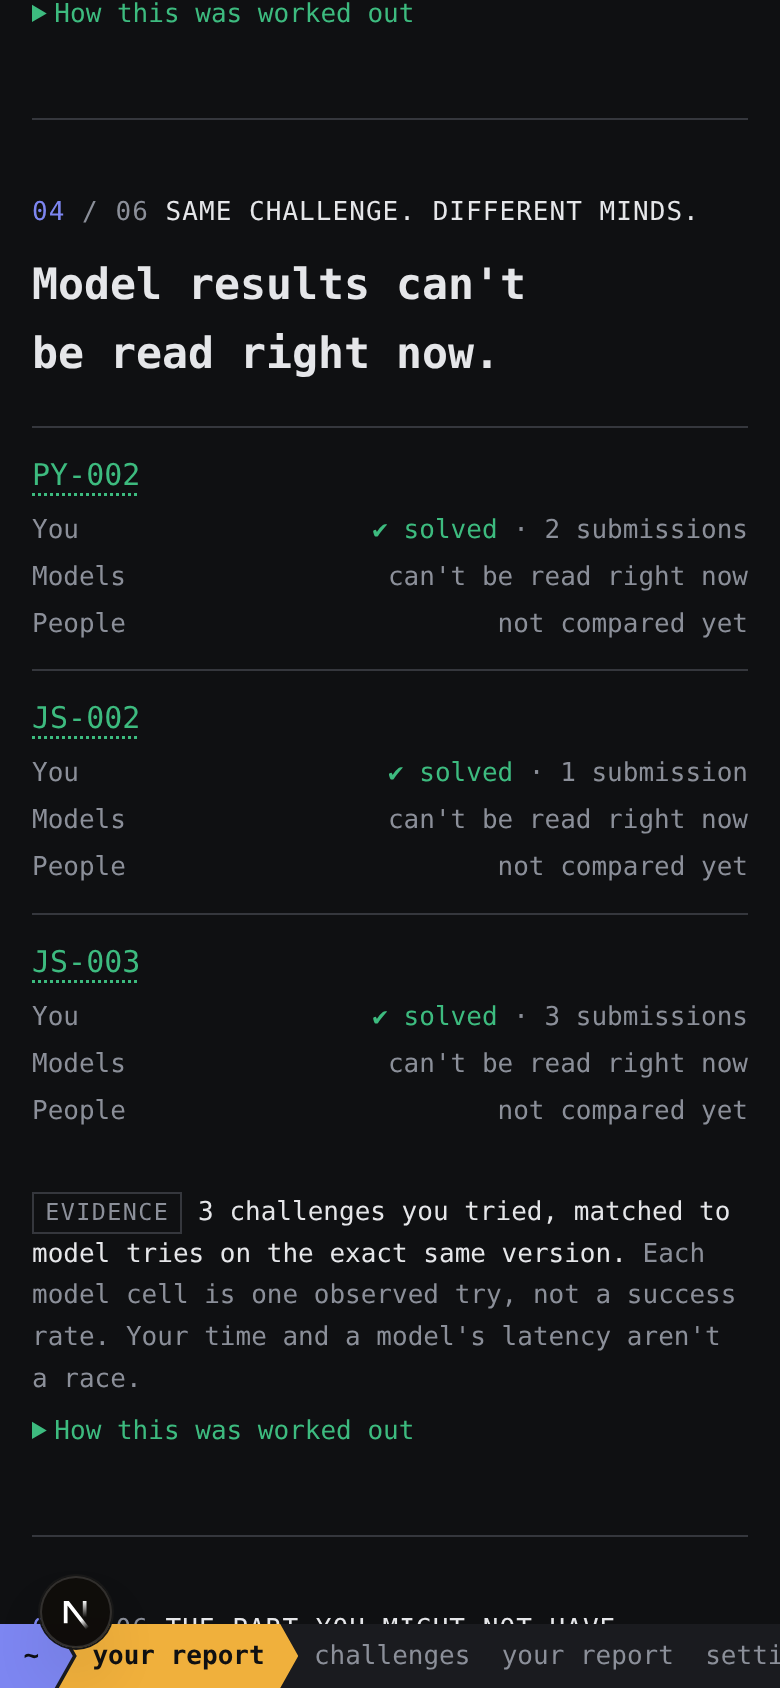
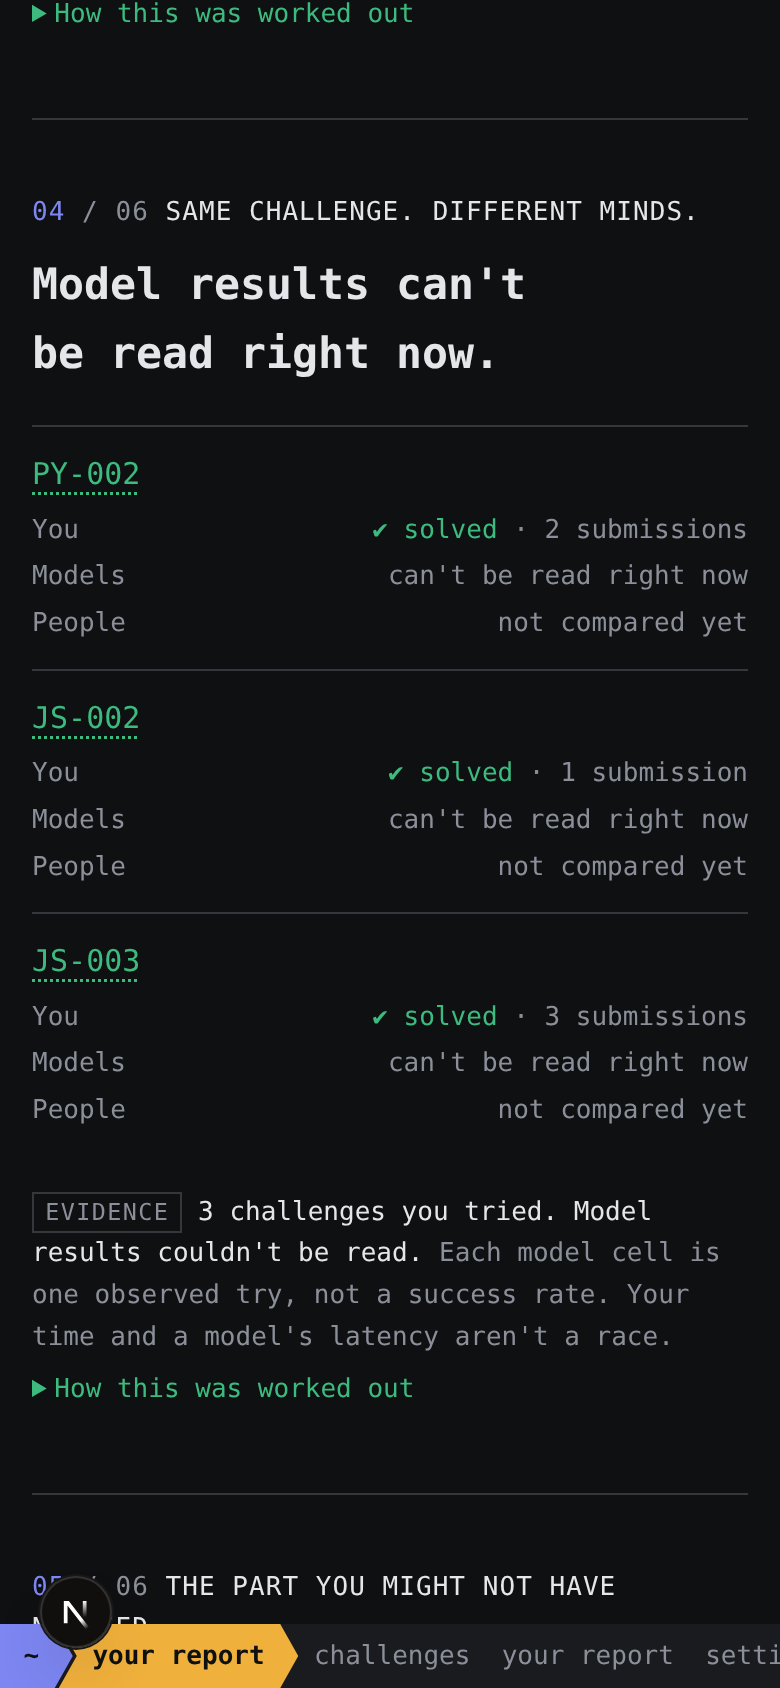
Recapture partial and unreadable-model evidence at the final code (ENG-374)

diff --git a/docs/eng-374-evidence/README.md b/docs/eng-374-evidence/README.md
@@ -9,12 +9,12 @@ All populated screens use **explicitly synthetic** practice records (fixture par
 | Rich: chapter 3 habits, people "not compared yet" | [habits](rich-desktop-3-habits.png) | |
 | Rich: chapter 4 result grid (solved, stopped, no receipt; people "not compared yet") | [models](rich-desktop-4-models.png) | [models](rich-mobile-4-models.png) |
 | Rich: chapters 5–6 (quiet confidence; resume the open challenge) | [surprise + next](rich-desktop-5-6-surprise-next.png) | |
-| Model reads failed: "Model results can't be read right now.", per-challenge cards | | [unreadable](models-unreadable-mobile.png) |
-| Partial: one unfinished attempt, no trace (the PDF case) | | [partial](partial-mobile.png) |
+| Model reads failed: "Model results can't be read right now.", evidence claims no match, per-challenge cards | | [unreadable](models-unreadable-mobile.png) |
+| Partial: one unfinished attempt, no trace (the PDF case): resume beside the opening | | [partial](partial-mobile.png) |
 | Empty: new player | [empty](empty-desktop.png) | |
 | Stealth | | [stealth](stealth-mobile.png) |
 
-After root's review, the first viewport leads with chapter 1's headline and hero numbers. Sources and freshness are a one-line disclosure (here showing "uploads unavailable", the honest state while the history SQL repair is pending), and chapter navigation follows chapter 1. The AI note is a short label, with the full sentence in the details. On narrow screens chapter 4 shows one card per challenge (you, each model, people) instead of a sideways-scrolling table. The story counts every submission in order, errors included. Mobile outcomes, story and models screenshots were recaptured after these changes; the desktop story and surprise screenshots predate the lead-layout change but their chapters are unchanged.
+After root's review, the first viewport leads with chapter 1's headline and hero numbers. Sources and freshness are a one-line disclosure (here showing "uploads unavailable", the honest state while the history SQL repair is pending), and chapter navigation follows chapter 1. The AI note is a short label, with the full sentence in the details. On narrow screens chapter 4 shows one card per challenge (you, each model, people) instead of a sideways-scrolling table. The story counts every submission in order, errors included. Mobile outcomes, story and models screenshots were recaptured after these changes, and partial and unreadable-models at final head after the resume and evidence-copy fixes; the desktop story and surprise screenshots predate the lead-layout change but their chapters are unchanged.
 
 Observed in the browser:
 
